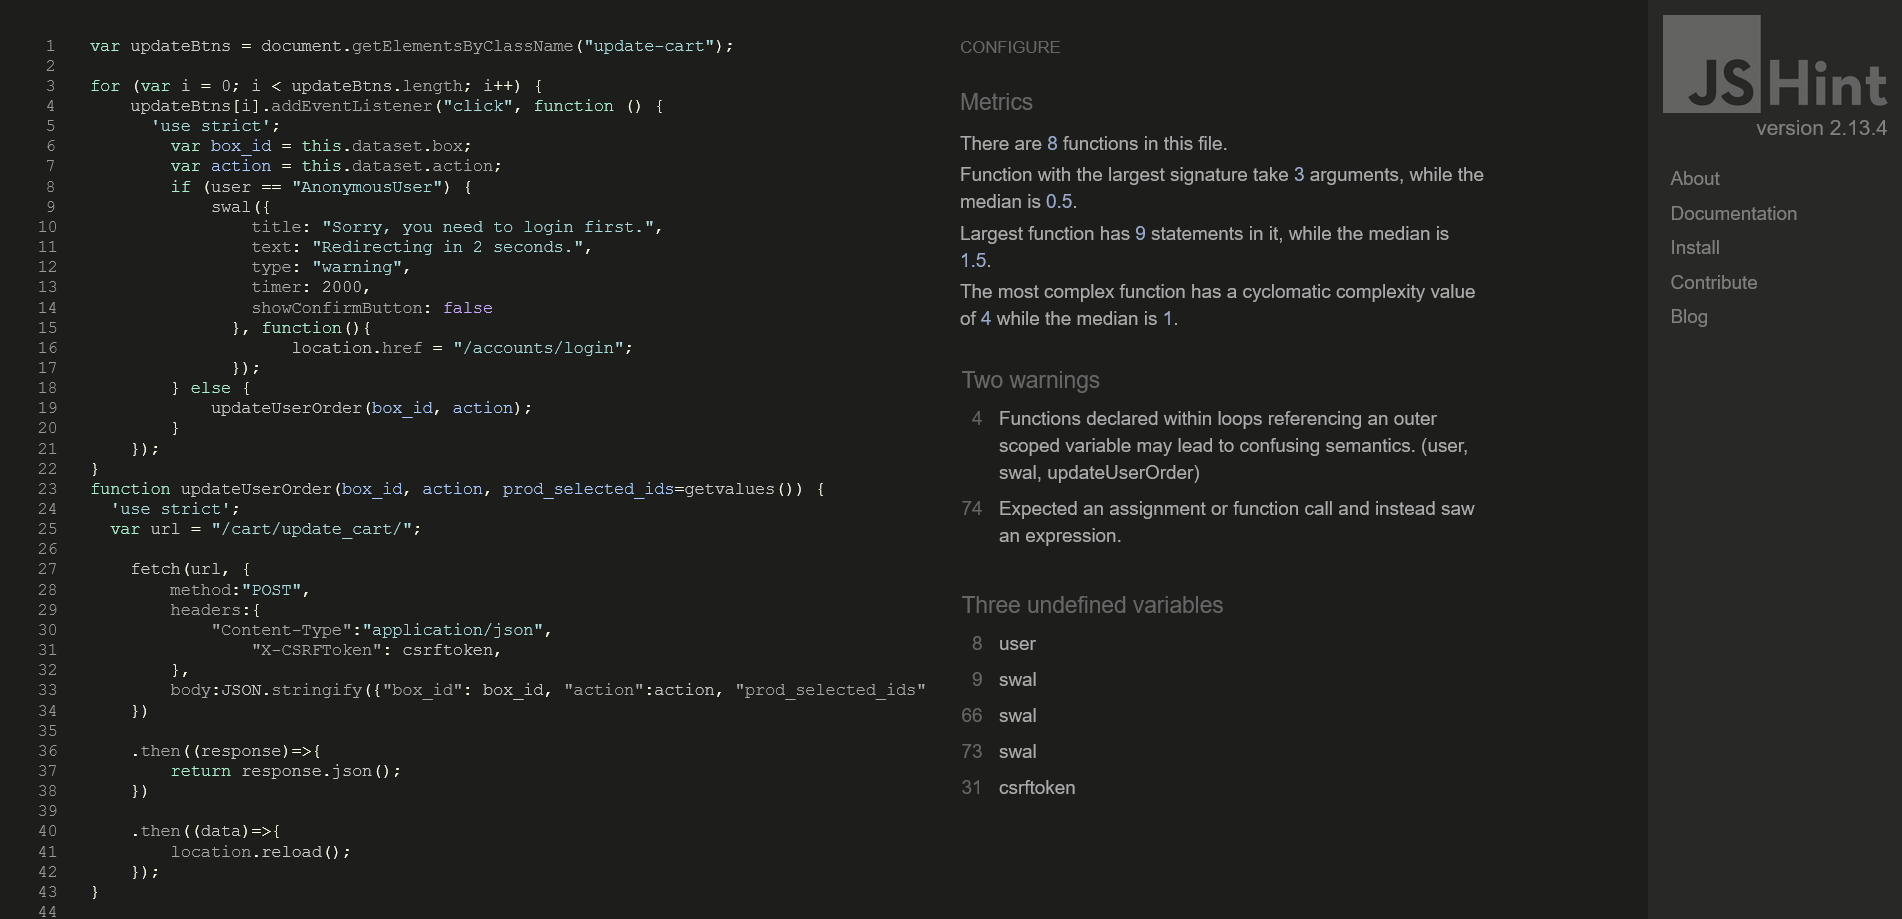
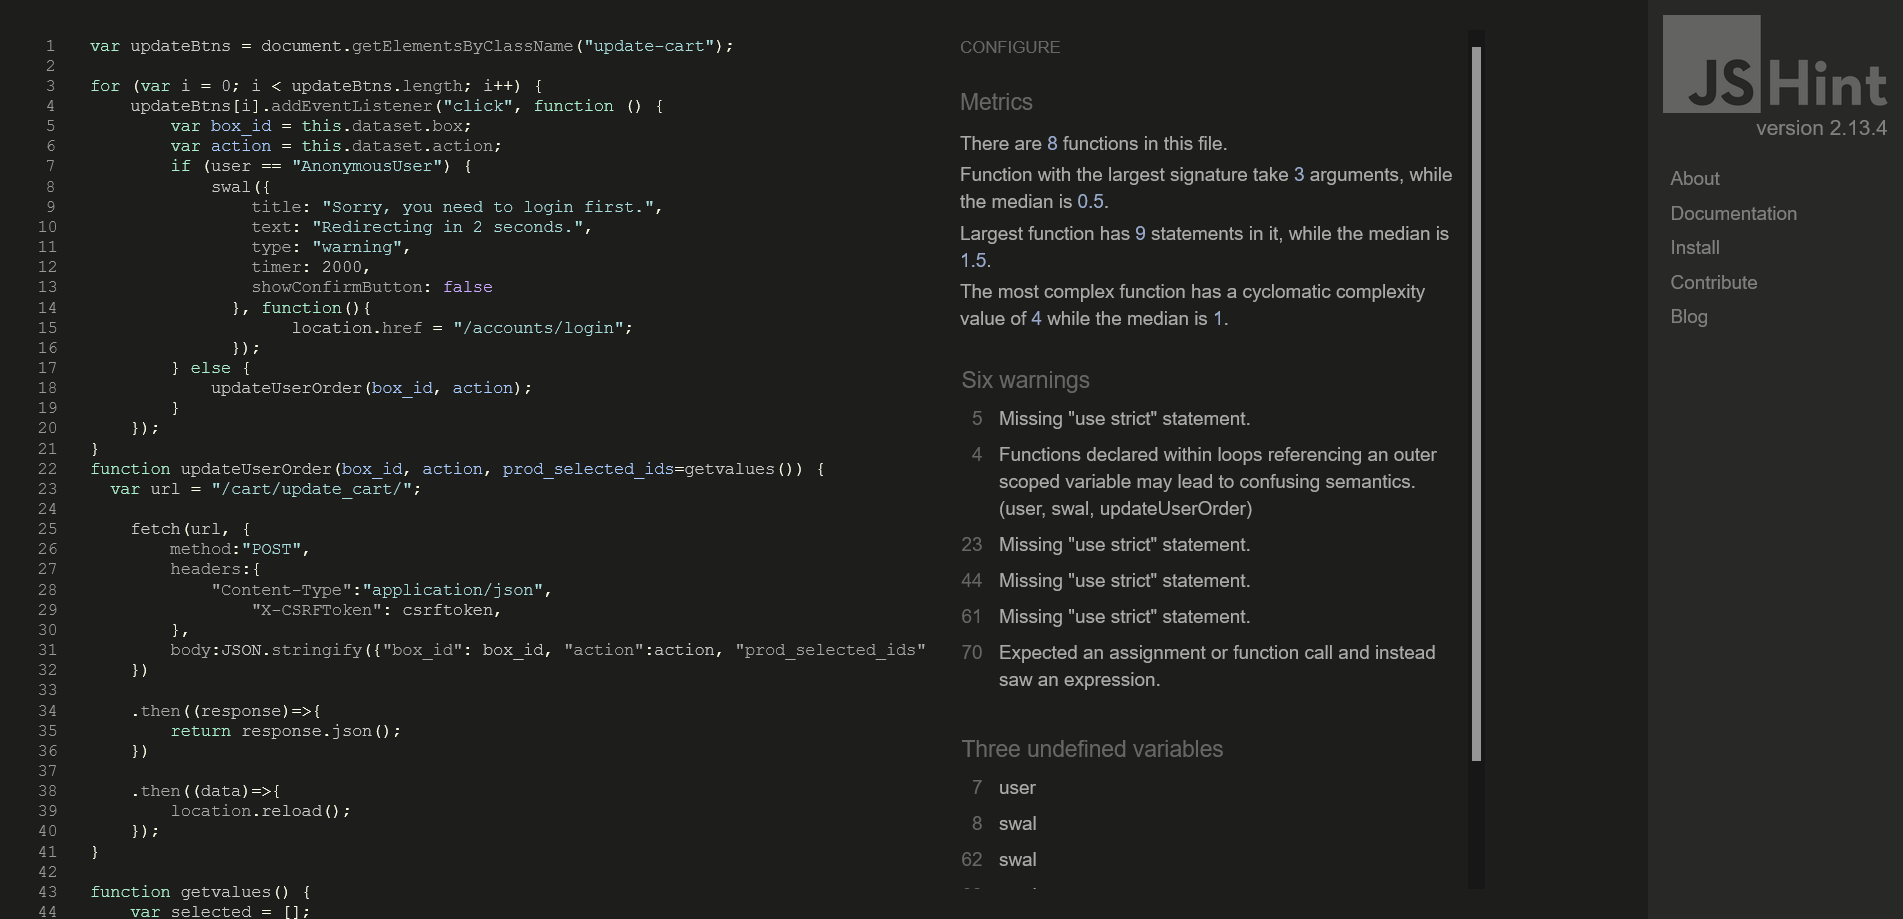
Fix a bug on js files

diff --git a/static/js/cart.js b/static/js/cart.js
@@ -2,7 +2,6 @@ var updateBtns = document.getElementsByClassName("update-cart");
 
 for (var i = 0; i < updateBtns.length; i++) {
     updateBtns[i].addEventListener("click", function () {
-      'use strict';
         var box_id = this.dataset.box;
         var action = this.dataset.action;
         if (user == "AnonymousUser") {
@@ -21,7 +20,6 @@ for (var i = 0; i < updateBtns.length; i++) {
     });
 }
 function updateUserOrder(box_id, action, prod_selected_ids=getvalues()) {
-  'use strict';  
   var url = "/cart/update_cart/";
 
     fetch(url, {
@@ -43,7 +41,6 @@ function updateUserOrder(box_id, action, prod_selected_ids=getvalues()) {
 }
 
 function getvalues() {
-    'use strict';
     var selected = [];
     var chkbox = document.querySelectorAll("[id*='id_selected_product_']");
     console.log(selected);
@@ -61,7 +58,6 @@ function getvalues() {
 // Limit checkbox selection only to 5
 
 $("input[type=checkbox]").change(function(e){
-    'use strict';
     if ($("input[type=checkbox]:checked").length > 5) {
          $(this).prop("checked", false), swal({
             title: "Sorry!",

diff --git a/static/js/stripe_elements.js b/static/js/stripe_elements.js
@@ -30,7 +30,6 @@ card.mount('#card-element');
 
 // Handle real-time validation errors from the card Element.
 card.addEventListener('change', function (event) {
-  'use strict';
     var displayError = document.getElementById('card-errors');
     if (event.error) {
         displayError.textContent = event.error.message;
@@ -42,7 +41,6 @@ card.addEventListener('change', function (event) {
 // Handle form submission.
 var form = document.getElementById('stripe-form');
 form.addEventListener('submit', function (event) {
-  'use strict';
     event.preventDefault();
 
     stripe.createToken(card).then(function (result) {
@@ -59,7 +57,6 @@ form.addEventListener('submit', function (event) {
 
 // Submit the form with the token ID.
 function stripeTokenHandler(token) {
-  'use strict';
     var form = document.getElementById('stripe-form');
     var hiddenInput = document.createElement('input');
     hiddenInput.setAttribute('type', 'hidden');

diff --git a/static/js/checkout.js b/static/js/checkout.js
@@ -8,7 +8,6 @@ var same_billing_address = document.querySelector("input[name=same_billing_addre
 
 if(use_default_shipping){
 use_default_shipping.addEventListener('change', function() {
-  'use strict';
   if (this.checked) {
     hideable_shipping_form.hide();
   } else {
@@ -18,7 +17,6 @@ use_default_shipping.addEventListener('change', function() {
 
 if(use_default_billing){
 use_default_billing.addEventListener('change', function() {
-  'use strict';
   if (this.checked) {
     hideable_billing_form.hide();
   } else {
@@ -27,7 +25,6 @@ use_default_billing.addEventListener('change', function() {
 });}
 
 same_billing_address.addEventListener('change', function() {
-  'use strict';
     if (this.checked) {
       hideable_billing_form.hide();
       hideable_user_default_billing.hide();

diff --git a/static/js/countryfield.js b/static/js/countryfield.js
@@ -3,7 +3,6 @@ if(!countrySelected) {
     $('#id_default_country').css('color', '#aab7c4');
 }
 $('#id_default_country').change(function() {
-    'use strict';
     countrySelected = $(this).val();
     if(!countrySelected) {
         $(this).css('color', '#aab7c4');

diff --git a/TESTING.md b/TESTING.md
@@ -531,7 +531,7 @@ All Html pages were validated using the W3 tool.
 
 ### Countryfield_js
 <p>
-   <img src= "media/readme/validation/js validation/countryfield_js_validation.png" width="40%"/>
+   <img src= "media/readme/validation/js validation/coutryfield_js_validation.png" width="40%"/>
 </p>
 
 ### Stripe_elements_js
